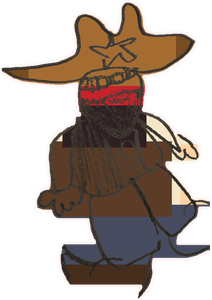
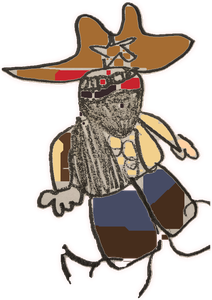
Keep Wild West colors inside the lines and give the bandit 10 lives
Fill both shirts fully without painting past the pencil outlines, and
show a big Bandit heart counter that counts down with each lasso hit.

diff --git a/game.js b/game.js
@@ -567,8 +567,7 @@
     if (mode === 1) {
       let mid = p1 ? '<div class="pscore">' + p1.score + "</div>" : "";
       if (isWestMode() && p1) {
-        const hits = world.lassoHits || 0;
-        mid += '<div class="adv-progress" style="color:#fff;font-weight:800;text-align:right;text-shadow:0 2px 0 #16324a;margin-right:58px">Lasso ' + hits + "/3</div>";
+        /* bandit lives are drawn on the canvas */
       } else if ((campaign === "adventure" || isChaseMode() || isParkourMode()) && world.goalDist && p1) {
         const pct = Math.max(0, Math.min(100, (world.dist / world.goalDist) * 100));
         mid += '<div class="adv-progress"><div class="bar-bg"><div class="bar-fg" style="width:' + pct + '%"></div></div></div>';
@@ -1132,6 +1131,7 @@
   function setupWest() {
     world.platforms = [];
     world.lassoHits = 0;
+    world.banditLives = 10;
     world.lassoCool = 0;
     world.lassos = [];
     world.capturing = false;
@@ -1187,7 +1187,7 @@
     const p = world.players[0];
     const b = world.bandit;
     if (!p || p.ghost || !b) return;
-    world.lassoCool = 0.85;
+    world.lassoCool = 0.7;
     const { drawW, drawH } = playerSize(p);
     const hx = p.x + drawW * 0.22;
     const hy = p.y + drawH * 0.02;
@@ -1205,25 +1205,32 @@
     }
   }
 
+  function banditLivesLeft() {
+    if (world.banditLives == null) world.banditLives = 10;
+    return Math.max(0, world.banditLives);
+  }
+
   function lassoHitBandit() {
     const b = world.bandit;
     if (!b || b.tied) return;
-    world.lassoHits = (world.lassoHits || 0) + 1;
+    world.banditLives = banditLivesLeft() - 1;
+    world.lassoHits = 10 - world.banditLives;
     b.flash = 0.45;
     updateHud();
-    const labels = ["Got him!", "Almost!", "Yeehaw!"];
-    const text = labels[Math.min(world.lassoHits, 3) - 1] + " " + world.lassoHits + "/3";
+    const n = world.banditLives;
+    const text = n <= 0 ? "Yeehaw!" : ("Got him! " + n + " left");
     world.popups.push({ x: b.x, y: b.y - 30, t: 0, text, color: "#ffe566" });
     addScore(world.players[0], 25, b.x, b.y);
     sfxCollect();
     burst(b.x, b.y);
-    if (world.lassoHits >= 3) startWestCapture();
+    if (n <= 0) startWestCapture();
   }
 
   function startWestCapture() {
     world.capturing = true;
     world.captureT = 0;
-    world.lassoHits = 3;
+    world.banditLives = 0;
+    world.lassoHits = 10;
     if (world.bandit) world.bandit.tied = true;
     world.lassos = [];
     world.speed = 0;
@@ -1237,6 +1244,32 @@
     world.westWon = true;
     world.capturing = true;
     maybeCompleteLevel();
+  }
+
+  function drawBanditLives() {
+    if (!isWestMode()) return;
+    const n = banditLivesLeft();
+    const label = "Bandit: ❤x" + n;
+    ctx.save();
+    ctx.font = "900 32px system-ui, sans-serif";
+    ctx.textAlign = "center";
+    ctx.textBaseline = "middle";
+    const y = 92;
+    const x = W / 2;
+    const tw = ctx.measureText(label).width;
+    const bw = tw + 36, bh = 54;
+    ctx.fillStyle = "rgba(255, 245, 210, 0.94)";
+    ctx.strokeStyle = "#16324a";
+    ctx.lineWidth = 4;
+    const left = x - bw / 2, top = y - bh / 2;
+    ctx.beginPath();
+    if (ctx.roundRect) ctx.roundRect(left, top, bw, bh, 16);
+    else ctx.rect(left, top, bw, bh);
+    ctx.fill();
+    ctx.stroke();
+    ctx.fillStyle = "#16324a";
+    ctx.fillText(label, x, y + 1);
+    ctx.restore();
   }
 
   function updateWest(dt, sp) {
@@ -2539,6 +2572,7 @@
       if (isChaseMode() || isParkourMode()) drawChasers();
       if (isWestMode()) drawBanditAndLasso();
       for (const plr of world.players) drawPlayer(plr);
+      if (isWestMode()) drawBanditLives();
       for (const pop of world.popups) {
         ctx.save();
         ctx.globalAlpha = 1 - pop.t / 0.7;
@@ -4442,8 +4476,9 @@
         if (world.players[0]) world.players[0].invuln = 0;
       },
       throwLasso: () => throwLasso(),
-      captureNow: () => { world.lassoHits = 3; startWestCapture(); },
+      captureNow: () => { world.banditLives = 0; world.lassoHits = 10; startWestCapture(); },
       getLassoHits: () => world.lassoHits || 0,
+      getBanditLives: () => (world.banditLives == null ? 10 : world.banditLives),
       startHouseYard: (id) => {
         campaign = "house";
         mode = 1;
